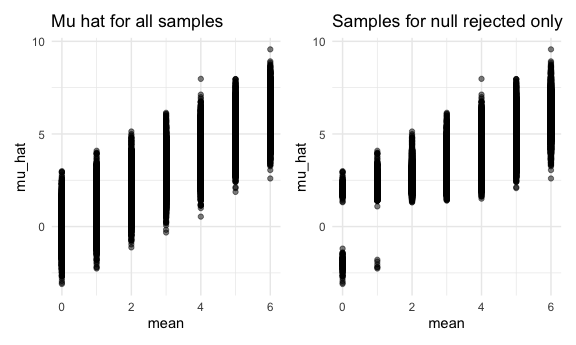
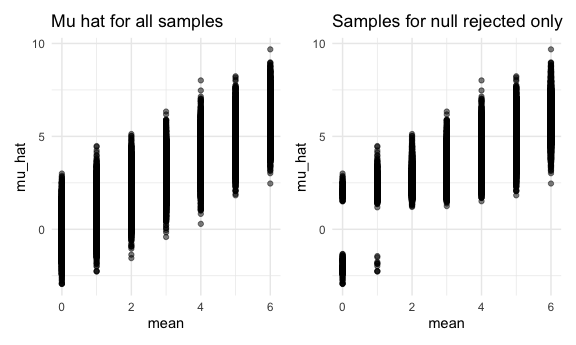
testing git connection

diff --git a/p8105_hw5_jl2361.md b/p8105_hw5_jl2361.md
@@ -1,7 +1,9 @@
 P8105 HW5
 ================
 Jennifer Lee (UNI: jl2361)
-2022-11-15
+2022-12-08
+
+testing git connection
 
 # Problem 1
 
@@ -449,16 +451,16 @@ sim_df
     ## # A tibble: 5,000 × 4
     ##     mean  iter mu_hat p_value
     ##    <dbl> <int>  <dbl>   <dbl>
-    ##  1     0     1  0.538   0.503
-    ##  2     0     2  1.23    0.200
-    ##  3     0     3  0.584   0.545
-    ##  4     0     4 -0.351   0.663
-    ##  5     0     5  0.629   0.505
-    ##  6     0     6  0.710   0.409
-    ##  7     0     7 -1.22    0.234
-    ##  8     0     8 -0.345   0.718
-    ##  9     0     9 -0.471   0.591
-    ## 10     0    10  0.608   0.459
+    ##  1     0     1 -0.224  0.823 
+    ##  2     0     2 -1.29   0.193 
+    ##  3     0     3  0.376  0.700 
+    ##  4     0     4 -1.38   0.212 
+    ##  5     0     5 -1.00   0.250 
+    ##  6     0     6  0.306  0.632 
+    ##  7     0     7  0.260  0.793 
+    ##  8     0     8 -1.73   0.0916
+    ##  9     0     9  0.154  0.802 
+    ## 10     0    10 -1.18   0.139 
     ## # … with 4,990 more rows
 
 We repeat the above including μ={1,2,3,4,5,6}.
@@ -479,18 +481,18 @@ sim_df2
 ```
 
     ## # A tibble: 35,000 × 4
-    ##     mean  iter mu_hat p_value
-    ##    <int> <int>  <dbl>   <dbl>
-    ##  1     0     1 -1.52   0.0809
-    ##  2     0     2  0.284  0.678 
-    ##  3     0     3  0.266  0.753 
-    ##  4     0     4 -0.955  0.392 
-    ##  5     0     5 -0.478  0.665 
-    ##  6     0     6 -1.17   0.205 
-    ##  7     0     7 -0.775  0.447 
-    ##  8     0     8  0.863  0.339 
-    ##  9     0     9  1.61   0.0647
-    ## 10     0    10 -0.702  0.462 
+    ##     mean  iter  mu_hat p_value
+    ##    <int> <int>   <dbl>   <dbl>
+    ##  1     0     1  0.754   0.406 
+    ##  2     0     2  1.98    0.0433
+    ##  3     0     3 -0.0484  0.955 
+    ##  4     0     4 -0.730   0.436 
+    ##  5     0     5 -0.186   0.822 
+    ##  6     0     6  1.30    0.186 
+    ##  7     0     7  0.525   0.562 
+    ##  8     0     8  0.251   0.801 
+    ##  9     0     9  0.546   0.512 
+    ## 10     0    10 -1.36    0.134 
     ## # … with 34,990 more rows
 
 ## Plots
